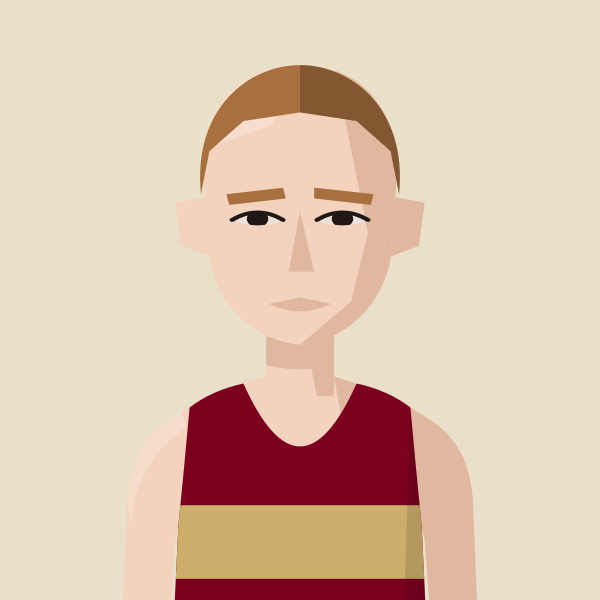
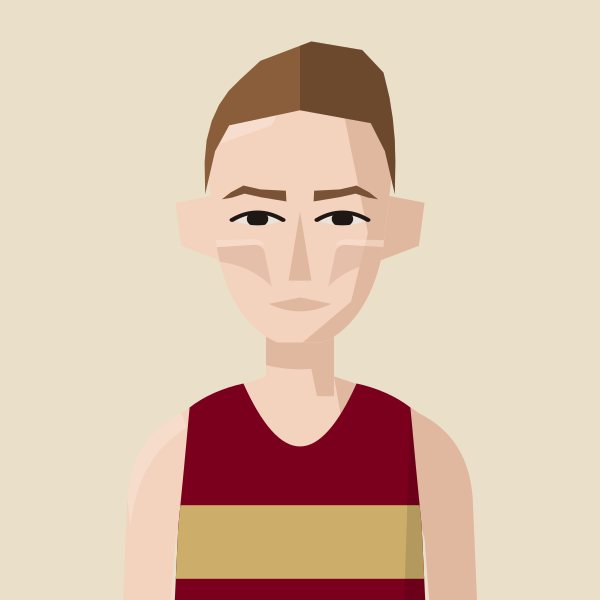
Redraw Dylan Evans: fitted quiff, high cheekbones, angled brows
Claude-Session: https://claude.ai/code/session_01MgmDWhFqnSSnP4iBLKXUZC

Changed region(s): [[0.33, 0.06, 0.69, 0.36], [0.57, 0.39, 0.66, 0.54], [0.48, 0.42, 0.54, 0.48]]

diff --git a/files/index.html b/files/index.html
@@ -827,7 +827,7 @@ const portraitFile=(name,club)=>{const k=normalizeNameForCompare(name||'').repla
 const portraitClubOf=(name,clubs)=>{for(const c of clubs||[]){if(c&&portraitFile(name,c))return c;}return null;}; /* first of these clubs we have a portrait for */
 // Athlete header figure: superstar portrait if we have one, else a grey runner in the club vest, else the plain vest icon
 // Changes whenever any portrait changes (set by tools/build_og.py), so browsers fetch fresh images instead of old cached ones
-const PORTRAIT_V='5b10b5b7';const PORTRAIT_WOMEN='abbey-brooke,abbie-bulbulian,adele-prince,aimee-hargreaves,aisling-ahern,alex-brown,alex-gandee,alex-marginean,alex-miller,alexa-parker,alexandra-barbour,alice-braham,alice-bridger-morales,alice-crane,alice-martin,alice-reed,alice-smith,alison-purnell,alison-thomson,amelia-pettitt,amy-clements,andrea-barber,anika-schwarze-chintapatla,anna-garnier,anna-garnier-hw,anna-sharp,annabel-hobday,annabelle-hadlow,anne-hegvold,annmarie-seymour,ava-mcandie,becky-briggs,bethan-goddard,bethanie-murray,bethany-brown,betsy-griffiths,billie-mcclosky,camilla-barden,caoimhe-nic-fhogartaigh,carolyne-baxter,catherine-bryson,catherine-eastham,catherine-kandie,cathy-ansell,charlotte-griffiths,chloe-beckett,chloe-tighe,chrissie-wellington,claire-grima,clara-pettit,clare-elms,clare-pauzers,dillan-quinn,dorchie-cockerell,eilidh-hide,elinor-skinner,eliza-grant,elizabeth-apsley,elizabeth-stavreski,ella-fennelly,ella-king-powrie,ella-may-hards,ella-newton,ellen-weir,ellie-brown,ellie-freeden,eloise-bull,emilie-arnoux,emily-barrett,emily-bradley,emily-lowery,emily-robbins,emma-gordon,emma-howsham,emma-lord,emma-rowland,estle-viljoen,evie-warren,felicity-cole,felicity-harrison,felicity-hayward,fi-maddocks,fiona-de-mauny,florence-wiggins,gabby-collison,gabriel-reynolds,gemma-newport,genevieve-blanch,georgia-curry,georgie-bruinvels,georgie-fenn,georgie-furze,georgie-grgec,gina-galbraith,grace-leyland,grace-richardson,hannah-edwards,hannah-english,heather-statham,heather-statham-cc,helena-corbin,helena-keenan,holly-nixon,holly-pan,imogen-mackie,imogen-wolsey,iona-cousland,isabel-bradley,isabel-brinsden,isabelle-pickett,isobel-hodder,jennifer-nandi,jennifer-smith,jess-reed,jess-saunders,jess-winfield,jessica-davies,jessica-lowe,jodie-favell,josephine-rhodes,julia-bleasdale,julia-wedmore,juliet-hodder,jurgita-levertaviciute,justine-lynch,karen-fenner,karen-xiang,karina-box,kate-axford,kate-williams,kathy-sharpe,katie-ellen-french,katie-good,katie-snowden,katy-hedgethorne,kitty-shepherd-cross,kristina-popadich,lara-bromilow,lara-mangan,laura-goodson,laura-miles,lauren-major,lea-adamson,lily-newton,lisa-bailey,lisa-thomas,lisa-thomas-hw,lizzie-goldie-scot,louise-cooper,lucy-jones,lucy-macalister,lucy-peters,lydia-blackmore,lydia-gallyer-barnett,maddie-mastrolonardo,maddy-whitman,maeve-kenny,margaret-coogan,martina-conner,mary-james,mary-setyabule,matilde-lomba,megan-gildea,mel-wilkins,mhairi-hall,mimi-corden-lloyd,molly-oconnor,molly-smith,monika-gajek,naomi-lenane,natalie-beadle,natalie-seymour,natasha-lodge,niamh-thompson,nicky-hayes,nicola-cartlidge,nicola-douglas,nikki-sturzaker,olivia-papaioannou,olivia-stillman,orna-mcginley,pamela-mchutchon,patricia-walker,patrizia-gnoato,penny-oliver,rachel-brown,rebecca-barrow,rebekah-edgar,ruby-carter,ruby-whyte-wilding,ruby-woolfe,sally-urquhart,sam-whiting,samantha-munday,sarah-astin,sarah-dewhirst,sarah-grover,sarah-hanley,sarah-holt,sarah-murphy,sarah-palmer,sarah-palmer-ran,sarah-riceman,sarah-young,saron-haileselase,serena-carter,sophie-cowper,sophie-harris,sophie-hicks,sophie-tooley,stacey-ward,steph-hewitt,steph-mccall,steph-mccall-cc,steph-mccall-slh,steph-mitchell,suzanne-swaine,suze-spalding,suzie-harvey,suzy-whatmough,teresa-murphy,tilly-heaton,tilly-heaton-bel,tish-jones,vic-cartwright,vicky-clarke,victoria-barthelmess,victoria-buck,vikki-filsell,zoe-doyle,zoe-macdonald,zuzana-nemeckova';const PORTRAIT_MEN='aaron-wilson,abdulla-elsadig,adam-leane,adrian-major,adrien-royer,alan-black,alan-mead,alex-brecker,alex-bruce-littlewood,alex-gutteridge,alex-harris,alex-howard,alex-janiaud,alex-lee,alex-lennon,alex-mills,alex-milne,alex-morales,alex-robinson,alex-yee,alexander-marks,amittai-ben-israel,andrew-cumine,andrew-green,andrew-penney,andrew-perfect,andrew-simms,andrew-warburton,andrius-jaksevicius,andy-coley-maud,andy-coley-maud-cc,andy-fyfe,andy-north,andy-paton,andy-weir,angus-butler,angus-lamb,anisse-ismaili,arlo-ludewick,arne-dumez,arthur-peel,ashley-goncalves,barnaby-day,barry-collins,barry-sawyer,ben-clarke,ben-coughlan,ben-harding,ben-hurley,ben-ireland,ben-millar,ben-paviour,ben-pearce,ben-racle,ben-revill,ben-reynolds,ben-scott,ben-toomer,benedict-whitby,benjamin-hilson,bernie-ford,bill-kerr,bill-weller,bill-weller-wal,bob-harrison,bob-holt,bob-lunnon,bob-rayman,bob-smith,bradley-courtney-pinn,brandon-dewar,brian-gorman,brian-wilder,caleb-hathaway,callum-stewart,cameron-dockerill,cameron-reilly,carl-delaney,charles-herrington,charlie-dabbs,charlie-dickinson,charlie-eastaugh,charlie-manning,charlie-pickett,charlie-rogers,charlie-sandison,charlie-walker,charlie-wyllie,che-compton,chris-busaileh,chris-busaileh-hhh,chris-greenwood,chris-keavey,chris-moss,chris-steer,chris-threadgold,chris-warren,christian-lee,christopher-parker,clive-gilby,clive-shippen,colin-high,colin-pearson,conall-mcnally,conall-whelan,craig-ruddy,dame-dibaba,dan-cliffe,dan-pettitt,daniel-shaw,daniel-wolff,dave-beard,dave-beaver,dave-glassborow,dave-holt,dave-taylor,david-anderson,david-bowers,david-grima,david-north,david-ogden,david-symons,david-walsh,david-williams,deron-fagan,dick-piotrowski,dimos-evangelidis,dominic-kiralyfi,don-anderson,don-faircloth,don-maclean,doug-maughan,duncan-rimmer,dylan-evans,dylan-mitchard,ed-brewer,ed-catmur,ed-gibson,ed-mallett,eddie-herridge,eddie-jodrell,eddie-rolls,edward-chuck,eoin-brady,eoin-molloy,ethan-mccolgan,falilou-kebe,findlay-dyer,finn-johnson,fintan-pearce,frank-tickner,frank-ward,fred-paget,fred-slemeck,freddie-hessian,garret-lee,gary-ribbons,gary-ribbons-ee,gary-staines,gary-staines-bel,gavin-eccles,geoff-biscoe,geoff-jerwood,geoff-north,george-cotton,george-gathercole,george-jackson,george-loxton,george-mallett,george-ogden,gerry-adams,gerry-north,glen-keegan,gordon-pearce,graham-macky,harrison-hayman,harry-guttridge,hector-revill,henry-hart,henry-silverstein,hugo-hewitt,huw-lobb,ian-acreman,ian-crowe-wright,ian-ellwood,ian-harkness,indy-barnes,isaac-lutaya,isaac-parker,jack-brotchie,jack-dickson,jack-dormer,jack-hampshire,jack-harrison,jack-hobden,jack-kavanagh,jack-millar,jack-ramm,jack-woods,jacob-brockmann,jake-simmonds,james-bartram,james-blackwood,james-bowler,james-estall,james-ewing,james-fox,james-hancock,james-harvey,james-hoad,james-kelly,james-mcmullan,james-murray,james-nutt,james-preston,james-roberts,james-stockings,james-ward,james-wootton,jamie-crowe,jamie-parkinson,jared-martin,jean-paul-wright,jeff-cunningham,jeremy-dempsey,jermaine-mays,jerry-watson,jim-allchin,jim-rimmer,joe-english,joe-hartley,john-baker,john-bicourt,john-bromley,john-davies,john-dear,john-foss,john-foxall,john-gilbert,john-gladwin,john-hutchins,john-kendall,john-kimaiyo,john-lee,john-lethbridge,john-mather,john-moore,john-roberts,john-sanderson,john-stow,john-sullivan,john-thresher,jon-hobbs,jon-pepper,jon-pepper-slh,jon-phillips,jon-solly,jonathan-cocker,jonathan-collier,jonathan-cornish,jonathan-ratcliffe,jonathan-tipper,jonathon-blackledge,jonny-neville,jonny-scott,jordan-weaver,josh-mitchell,josh-snow,josh-trigwell,jules-gevers,junior-galley,justin-chaston,justin-reid,kassa-tadesse,keith-newton,kevin-nash,kevin-quinn,kevin-sturman,kieran-barnes,kieran-white,knut-hegvold,knut-hegvold-bel,larry-ryan,lawrence-avery,lee-lintern,lewis-lloyd,liam-burthem,lionel-mann,lloyd-kempson,luke-caldwell,mack-downie,malachi-byansi,marcello-bizio,marcelo-fortes,marco-mazzotta,mark-anderson,mark-miles,mark-sinclair,mark-tennyson,mark-waller,martin-dent,martin-lake,martin-lewington,martin-shore,mathew-speed,matt-chaston,matt-jones,matt-wood,matthew-edgar,matthew-houchell,matthew-thomas,matthew-varley,max-bloor,max-heyden,max-milarvie,max-nicholls,michael-baker,michael-mccarthy,mick-woods,mike-beevor,mike-boyle,mike-cummings,mike-farmery,mike-fuller,mike-hayes,mike-kortenray,mike-nouch,mohammed-ismail,monty-hudson,morgan-roberts,nathan-visick,neil-chisholm,neil-phillips,neil-speaight,neil-wilson,nic-lukies,nick-acfield,nick-altmann,nick-bester,nick-bester-hhh,nick-buckle,nick-bundle,nick-goolab,nick-lightfoot,nick-morris,nick-torry,noah-fernandez,norman-stairs,oli-carrington,oliver-carrington,oliver-fox,oliver-reynolds,oliver-young,ollie-foote,ollie-garrod,olly-buck,owen-hind,paddy-roddy,pancho-panchev,paskar-owor,pat-newell,patrick-mcdougall,paul-calver,paul-cheetham,paul-freary,paul-magner,paul-pollock,paul-sanderson,paul-sanderson-wok,pete-carton,pete-gardner,peter-clarke,peter-giles,peter-giles-thh,peter-lighting,phil-carstairs,phil-sanders,phil-sesemann,phil-swinburn,phil-wicks,phil-woodford-smith,raj-paranandi,ralph-street,ranjit-bhatia,ray-foley,reece-edwards,rhys-boorman,rian-mccawley,richard-ashe,richard-giles,richard-henderson,richard-langley,richard-mcdowell,richard-ollington,richard-partridge,richard-sun,richard-ward,rob-armstrong,rob-kelly,rob-tuer,robert-elphick,robert-laing,robert-norville,robert-peacock,robert-sesemann,robin-boon,robin-hudson,roger-alsop,roger-alsop-bel,roger-hackney,ron-clark,ron-linstead,ronan-tanguy,rory-mcmahon,rory-orsborn,ross-braden,ross-christie,rowan-board,rowan-crichton,russell-dessaix-chin,ryan-hickey,ryan-mccallister,sam-bramwell,sam-charlton,sam-gebreselassie,sam-haughian,sam-peters,sam-sommerville,sam-tyas,samuel-dames,samuel-wilcock,sean-cordon,sebastian-anthony,simon-baines,simon-coombes,simon-coppard,simon-fairbrother,simon-holmes,simon-rayner,simon-rayner-hw,simon-wade,simon-wade-hhh,simon-waterhouse,simon-williams,simon-wurr,sonny-nicoll,spencer-barden,stephen-mcleod,stephen-sharp,steve-gardner,steve-jones,steve-smythe,steve-smythe-hhh,stuart-beaney,stuart-major,stuart-major-thh,stuart-mccallum,stuart-paton,terry-booth,thomas-dugre,thomas-gandee,thomas-gardner,thomas-renshaw,tim-alexander,tim-eglen,tim-lawrence,tim-watson,toby-cooke,toby-fletcher,tom-austin,tom-cheetham,tom-conlon,tom-davies,tom-gifford,tom-higgs,tom-jervis,tom-lole,tom-south,tom-thornley,tommy-taylor,tony-binda,tony-fairclough,tony-harran,trevor-hart,valdis-pauzers,valentin-rigori,vic-maughan,wayne-oxborough,will-cockerell,will-lewis,will-marshall,will-scott,will-stockley,william-gardner,yacin-yusuf,zach-nolan';
+const PORTRAIT_V='b96eb907';const PORTRAIT_WOMEN='abbey-brooke,abbie-bulbulian,adele-prince,aimee-hargreaves,aisling-ahern,alex-brown,alex-gandee,alex-marginean,alex-miller,alexa-parker,alexandra-barbour,alice-braham,alice-bridger-morales,alice-crane,alice-martin,alice-reed,alice-smith,alison-purnell,alison-thomson,amelia-pettitt,amy-clements,andrea-barber,anika-schwarze-chintapatla,anna-garnier,anna-garnier-hw,anna-sharp,annabel-hobday,annabelle-hadlow,anne-hegvold,annmarie-seymour,ava-mcandie,becky-briggs,bethan-goddard,bethanie-murray,bethany-brown,betsy-griffiths,billie-mcclosky,camilla-barden,caoimhe-nic-fhogartaigh,carolyne-baxter,catherine-bryson,catherine-eastham,catherine-kandie,cathy-ansell,charlotte-griffiths,chloe-beckett,chloe-tighe,chrissie-wellington,claire-grima,clara-pettit,clare-elms,clare-pauzers,dillan-quinn,dorchie-cockerell,eilidh-hide,elinor-skinner,eliza-grant,elizabeth-apsley,elizabeth-stavreski,ella-fennelly,ella-king-powrie,ella-may-hards,ella-newton,ellen-weir,ellie-brown,ellie-freeden,eloise-bull,emilie-arnoux,emily-barrett,emily-bradley,emily-lowery,emily-robbins,emma-gordon,emma-howsham,emma-lord,emma-rowland,estle-viljoen,evie-warren,felicity-cole,felicity-harrison,felicity-hayward,fi-maddocks,fiona-de-mauny,florence-wiggins,gabby-collison,gabriel-reynolds,gemma-newport,genevieve-blanch,georgia-curry,georgie-bruinvels,georgie-fenn,georgie-furze,georgie-grgec,gina-galbraith,grace-leyland,grace-richardson,hannah-edwards,hannah-english,heather-statham,heather-statham-cc,helena-corbin,helena-keenan,holly-nixon,holly-pan,imogen-mackie,imogen-wolsey,iona-cousland,isabel-bradley,isabel-brinsden,isabelle-pickett,isobel-hodder,jennifer-nandi,jennifer-smith,jess-reed,jess-saunders,jess-winfield,jessica-davies,jessica-lowe,jodie-favell,josephine-rhodes,julia-bleasdale,julia-wedmore,juliet-hodder,jurgita-levertaviciute,justine-lynch,karen-fenner,karen-xiang,karina-box,kate-axford,kate-williams,kathy-sharpe,katie-ellen-french,katie-good,katie-snowden,katy-hedgethorne,kitty-shepherd-cross,kristina-popadich,lara-bromilow,lara-mangan,laura-goodson,laura-miles,lauren-major,lea-adamson,lily-newton,lisa-bailey,lisa-thomas,lisa-thomas-hw,lizzie-goldie-scot,louise-cooper,lucy-jones,lucy-macalister,lucy-peters,lydia-blackmore,lydia-gallyer-barnett,maddie-mastrolonardo,maddy-whitman,maeve-kenny,margaret-coogan,martina-conner,mary-james,mary-setyabule,matilde-lomba,megan-gildea,mel-wilkins,mhairi-hall,mimi-corden-lloyd,molly-oconnor,molly-smith,monika-gajek,naomi-lenane,natalie-beadle,natalie-seymour,natasha-lodge,niamh-thompson,nicky-hayes,nicola-cartlidge,nicola-douglas,nikki-sturzaker,olivia-papaioannou,olivia-stillman,orna-mcginley,pamela-mchutchon,patricia-walker,patrizia-gnoato,penny-oliver,rachel-brown,rebecca-barrow,rebekah-edgar,ruby-carter,ruby-whyte-wilding,ruby-woolfe,sally-urquhart,sam-whiting,samantha-munday,sarah-astin,sarah-dewhirst,sarah-grover,sarah-hanley,sarah-holt,sarah-murphy,sarah-palmer,sarah-palmer-ran,sarah-riceman,sarah-young,saron-haileselase,serena-carter,sophie-cowper,sophie-harris,sophie-hicks,sophie-tooley,stacey-ward,steph-hewitt,steph-mccall,steph-mccall-cc,steph-mccall-slh,steph-mitchell,suzanne-swaine,suze-spalding,suzie-harvey,suzy-whatmough,teresa-murphy,tilly-heaton,tilly-heaton-bel,tish-jones,vic-cartwright,vicky-clarke,victoria-barthelmess,victoria-buck,vikki-filsell,zoe-doyle,zoe-macdonald,zuzana-nemeckova';const PORTRAIT_MEN='aaron-wilson,abdulla-elsadig,adam-leane,adrian-major,adrien-royer,alan-black,alan-mead,alex-brecker,alex-bruce-littlewood,alex-gutteridge,alex-harris,alex-howard,alex-janiaud,alex-lee,alex-lennon,alex-mills,alex-milne,alex-morales,alex-robinson,alex-yee,alexander-marks,amittai-ben-israel,andrew-cumine,andrew-green,andrew-penney,andrew-perfect,andrew-simms,andrew-warburton,andrius-jaksevicius,andy-coley-maud,andy-coley-maud-cc,andy-fyfe,andy-north,andy-paton,andy-weir,angus-butler,angus-lamb,anisse-ismaili,arlo-ludewick,arne-dumez,arthur-peel,ashley-goncalves,barnaby-day,barry-collins,barry-sawyer,ben-clarke,ben-coughlan,ben-harding,ben-hurley,ben-ireland,ben-millar,ben-paviour,ben-pearce,ben-racle,ben-revill,ben-reynolds,ben-scott,ben-toomer,benedict-whitby,benjamin-hilson,bernie-ford,bill-kerr,bill-weller,bill-weller-wal,bob-harrison,bob-holt,bob-lunnon,bob-rayman,bob-smith,bradley-courtney-pinn,brandon-dewar,brian-gorman,brian-wilder,caleb-hathaway,callum-stewart,cameron-dockerill,cameron-reilly,carl-delaney,charles-herrington,charlie-dabbs,charlie-dickinson,charlie-eastaugh,charlie-manning,charlie-pickett,charlie-rogers,charlie-sandison,charlie-walker,charlie-wyllie,che-compton,chris-busaileh,chris-busaileh-hhh,chris-greenwood,chris-keavey,chris-moss,chris-steer,chris-threadgold,chris-warren,christian-lee,christopher-parker,clive-gilby,clive-shippen,colin-high,colin-pearson,conall-mcnally,conall-whelan,craig-ruddy,dame-dibaba,dan-cliffe,dan-pettitt,daniel-shaw,daniel-wolff,dave-beard,dave-beaver,dave-glassborow,dave-holt,dave-taylor,david-anderson,david-bowers,david-grima,david-north,david-ogden,david-symons,david-walsh,david-williams,deron-fagan,dick-piotrowski,dimos-evangelidis,dominic-kiralyfi,don-anderson,don-faircloth,don-maclean,doug-maughan,duncan-rimmer,dylan-evans,dylan-mitchard,ed-brewer,ed-catmur,ed-gibson,ed-mallett,eddie-herridge,eddie-jodrell,eddie-rolls,edward-chuck,eoin-brady,eoin-molloy,ethan-mccolgan,falilou-kebe,findlay-dyer,finn-johnson,fintan-pearce,frank-tickner,frank-ward,fred-paget,fred-slemeck,freddie-hessian,garret-lee,gary-ribbons,gary-ribbons-ee,gary-staines,gary-staines-bel,gavin-eccles,geoff-biscoe,geoff-jerwood,geoff-north,george-cotton,george-gathercole,george-jackson,george-loxton,george-mallett,george-ogden,gerry-adams,gerry-north,glen-keegan,gordon-pearce,graham-macky,harrison-hayman,harry-guttridge,hector-revill,henry-hart,henry-silverstein,hugo-hewitt,huw-lobb,ian-acreman,ian-crowe-wright,ian-ellwood,ian-harkness,indy-barnes,isaac-lutaya,isaac-parker,jack-brotchie,jack-dickson,jack-dormer,jack-hampshire,jack-harrison,jack-hobden,jack-kavanagh,jack-millar,jack-ramm,jack-woods,jacob-brockmann,jake-simmonds,james-bartram,james-blackwood,james-bowler,james-estall,james-ewing,james-fox,james-hancock,james-harvey,james-hoad,james-kelly,james-mcmullan,james-murray,james-nutt,james-preston,james-roberts,james-stockings,james-ward,james-wootton,jamie-crowe,jamie-parkinson,jared-martin,jean-paul-wright,jeff-cunningham,jeremy-dempsey,jermaine-mays,jerry-watson,jim-allchin,jim-rimmer,joe-english,joe-hartley,john-baker,john-bicourt,john-bromley,john-davies,john-dear,john-foss,john-foxall,john-gilbert,john-gladwin,john-hutchins,john-kendall,john-kimaiyo,john-lee,john-lethbridge,john-mather,john-moore,john-roberts,john-sanderson,john-stow,john-sullivan,john-thresher,jon-hobbs,jon-pepper,jon-pepper-slh,jon-phillips,jon-solly,jonathan-cocker,jonathan-collier,jonathan-cornish,jonathan-ratcliffe,jonathan-tipper,jonathon-blackledge,jonny-neville,jonny-scott,jordan-weaver,josh-mitchell,josh-snow,josh-trigwell,jules-gevers,junior-galley,justin-chaston,justin-reid,kassa-tadesse,keith-newton,kevin-nash,kevin-quinn,kevin-sturman,kieran-barnes,kieran-white,knut-hegvold,knut-hegvold-bel,larry-ryan,lawrence-avery,lee-lintern,lewis-lloyd,liam-burthem,lionel-mann,lloyd-kempson,luke-caldwell,mack-downie,malachi-byansi,marcello-bizio,marcelo-fortes,marco-mazzotta,mark-anderson,mark-miles,mark-sinclair,mark-tennyson,mark-waller,martin-dent,martin-lake,martin-lewington,martin-shore,mathew-speed,matt-chaston,matt-jones,matt-wood,matthew-edgar,matthew-houchell,matthew-thomas,matthew-varley,max-bloor,max-heyden,max-milarvie,max-nicholls,michael-baker,michael-mccarthy,mick-woods,mike-beevor,mike-boyle,mike-cummings,mike-farmery,mike-fuller,mike-hayes,mike-kortenray,mike-nouch,mohammed-ismail,monty-hudson,morgan-roberts,nathan-visick,neil-chisholm,neil-phillips,neil-speaight,neil-wilson,nic-lukies,nick-acfield,nick-altmann,nick-bester,nick-bester-hhh,nick-buckle,nick-bundle,nick-goolab,nick-lightfoot,nick-morris,nick-torry,noah-fernandez,norman-stairs,oli-carrington,oliver-carrington,oliver-fox,oliver-reynolds,oliver-young,ollie-foote,ollie-garrod,olly-buck,owen-hind,paddy-roddy,pancho-panchev,paskar-owor,pat-newell,patrick-mcdougall,paul-calver,paul-cheetham,paul-freary,paul-magner,paul-pollock,paul-sanderson,paul-sanderson-wok,pete-carton,pete-gardner,peter-clarke,peter-giles,peter-giles-thh,peter-lighting,phil-carstairs,phil-sanders,phil-sesemann,phil-swinburn,phil-wicks,phil-woodford-smith,raj-paranandi,ralph-street,ranjit-bhatia,ray-foley,reece-edwards,rhys-boorman,rian-mccawley,richard-ashe,richard-giles,richard-henderson,richard-langley,richard-mcdowell,richard-ollington,richard-partridge,richard-sun,richard-ward,rob-armstrong,rob-kelly,rob-tuer,robert-elphick,robert-laing,robert-norville,robert-peacock,robert-sesemann,robin-boon,robin-hudson,roger-alsop,roger-alsop-bel,roger-hackney,ron-clark,ron-linstead,ronan-tanguy,rory-mcmahon,rory-orsborn,ross-braden,ross-christie,rowan-board,rowan-crichton,russell-dessaix-chin,ryan-hickey,ryan-mccallister,sam-bramwell,sam-charlton,sam-gebreselassie,sam-haughian,sam-peters,sam-sommerville,sam-tyas,samuel-dames,samuel-wilcock,sean-cordon,sebastian-anthony,simon-baines,simon-coombes,simon-coppard,simon-fairbrother,simon-holmes,simon-rayner,simon-rayner-hw,simon-wade,simon-wade-hhh,simon-waterhouse,simon-williams,simon-wurr,sonny-nicoll,spencer-barden,stephen-mcleod,stephen-sharp,steve-gardner,steve-jones,steve-smythe,steve-smythe-hhh,stuart-beaney,stuart-major,stuart-major-thh,stuart-mccallum,stuart-paton,terry-booth,thomas-dugre,thomas-gandee,thomas-gardner,thomas-renshaw,tim-alexander,tim-eglen,tim-lawrence,tim-watson,toby-cooke,toby-fletcher,tom-austin,tom-cheetham,tom-conlon,tom-davies,tom-gifford,tom-higgs,tom-jervis,tom-lole,tom-south,tom-thornley,tommy-taylor,tony-binda,tony-fairclough,tony-harran,trevor-hart,valdis-pauzers,valentin-rigori,vic-maughan,wayne-oxborough,will-cockerell,will-lewis,will-marshall,will-scott,will-stockley,william-gardner,yacin-yusuf,zach-nolan';
 // Runners whose dog pops up on their own profile page (a -dog.svg version of their portrait)
 const PROFILE_DOGS=new Set(['john-sanderson','penny-oliver','james-hancock','angus-butler']);
 const AthletePortrait=({name,club,w,fill,onClick,blink})=>{const[failed,setFailed]=useState(false);const file=portraitFile(name,club);const src0=file?`/portraits/athletes/${file}.svg?v=${PORTRAIT_V}`:PORTRAIT_CLUBS.has(club)?`/portraits/clubs/${club.replace(/\//g,'').replace(/&/g,'and')}.svg?v=${PORTRAIT_V}`:null;const blinkSrc=useBlinkSrc(file?(PROFILE_DOGS.has(file)?`/portraits/athletes/${file}-dog.svg?v=${PORTRAIT_V}`:src0):null,!!blink);const src=blinkSrc||src0;if(!src||failed)return<div onClick={onClick} className={onClick?'cursor-pointer':''}><ClubShield club={club} size={w}/></div>;const h=Math.round(w*148/126),ih=Math.round(w*1.4);if(fill)return<div onClick={onClick} className="cursor-pointer" style={{alignSelf:'stretch',minHeight:h,aspectRatio:'126 / 148',flexShrink:0,position:'relative',borderRadius:4,overflow:'hidden'}}><img src={src} alt={file?`Portrait of ${name.replace(/\s*\([^)]*\)$/,'')}`:`Runner in ${CLUBS[club]?.name||club} vest`} style={{position:'absolute',top:0,left:0,display:'block',width:'100%',height:'auto'}} onError={()=>setFailed(true)}/></div>;return<div style={{width:w,height:h,borderRadius:4,overflow:'hidden',flexShrink:0}}><img src={src} alt={file?`Portrait of ${name.replace(/\s*\([^)]*\)$/,'')}`:`Runner in ${CLUBS[club]?.name||club} vest`} width={w} height={ih} style={{display:'block',width:w,height:ih}} onError={()=>setFailed(true)}/></div>;};

diff --git a/tools/gen_portraits.py b/tools/gen_portraits.py
@@ -1834,4 +1834,23 @@ HAIR["pompback"] = ('<path d="M66,96 C63,84 61,76 62,68 Q55,58 63,49 Q70,40 82,3
 GARY = lambda kit: nose(taperbrows(brows(eyes(figure(kit, skin=1, hair="pompback", hair_colour="#231A16", brow_colour="#1E1714", creases=True, gaunt=True, jaw="square"), None, -0.5), 0, -0.5, 3.5), 1.8), 1.0, 1.15)
 save("gary-staines", GARY("SLH"))
 save("gary-staines-bel", GARY("BEL"))
+HAIR["quiffslim"] = '<path d="M66.5,100 L66.3,85 L67,75 L68.8,66 L71.4,58.5 L74.8,52 L79,46.5 L86,38 L104,29 L122,33 L129.5,43.5 L131.6,55 L132.8,65 L133.5,75 L133.7,85 L133.5,100 L130,80 L125,67 L100,61 L75,68 L70,80 Z"/>'  # short quiff hugging a long, narrow head: no gap at the temples (Dylan Evans)
+# ---- Angled brows and high cheekbones (Oct 2026, first used for Dylan Evans) ----
+def angledbrows(svg, peak=1.4):
+    """Straight, solid brows with thick inner heads that run level, then angle down at the outer third to a short tail (keeps the brow height)."""
+    m = _rq.search(r'<g fill="(#[0-9A-Fa-f]{3,6})"><polygon points="[0-9.]+,[0-9.]+ [0-9.]+,([0-9.]+) [^"]+"/><polygon points="[^"]+"/></g>', svg)
+    if not m: return svg
+    dy = float(m.group(2)) - 100
+    L = [(95,99.4),(86,98.8),(80,98.4-peak),(75.5,100.2),(72.4,103.4),(76,102.6),(80.4,101.6-peak*.6),(86,102.4),(95.2,104.4)]
+    f = lambda pts: " ".join(f"{x:g},{y+dy:g}" for x, y in pts)
+    return svg[:m.start()] + f'<g fill="{m.group(1)}"><polygon points="{f(L)}"/><polygon points="{f([(200-x, y) for x, y in L])}"/></g>' + svg[m.end():]
+def cheekbones(svg, skin=1, tag="f", depth=1.0):
+    """High, prominent cheekbones: a sharp-edged hollow under each cheekbone, angling from below the ear towards the mouth corner,
+    with a fine light edge along the bone (use instead of gaunt=True)."""
+    sk, dk, lt = SKIN[skin]
+    return _after_lids(svg, f'<g clip-path="url(#h{tag})"><g fill="{dk}" opacity="{.7*depth:.2f}"><path d="M66,125 L84,123.5 Q87,124 87.5,127 L90,143 Q81,131 66,131 Z"/><path d="M134,125 L116,123.5 Q113,124 112.5,127 L110,143 Q119,131 134,131 Z"/></g>'
+        f'<g fill="{lt}" opacity=".55"><path d="M66,121.5 L84,121 Q87,121.5 87.5,124 Q85,123 84,123.5 L66,125 Z"/><path d="M134,121.5 L116,121 Q113,121.5 112.5,124 Q115,123 116,123.5 L134,125 Z"/></g></g>')
+# Dylan Evans (BEL), redrawn Oct 2026: short light-brown quiff fitted to a long narrow head (full hairline, no recede),
+# prominent high cheekbones, solid straight brows angling down at the outer ends, long straight nose
+save("evans", cheekbones(nose(angledbrows(brows(eyes(figure("BEL", skin=1, hair="quiffslim", hair_colour="#8A5E3A", brow_colour="#7A5236", jaw="long")), 0, 0, 2)), 0.9, 1.15)))
 export_site()
